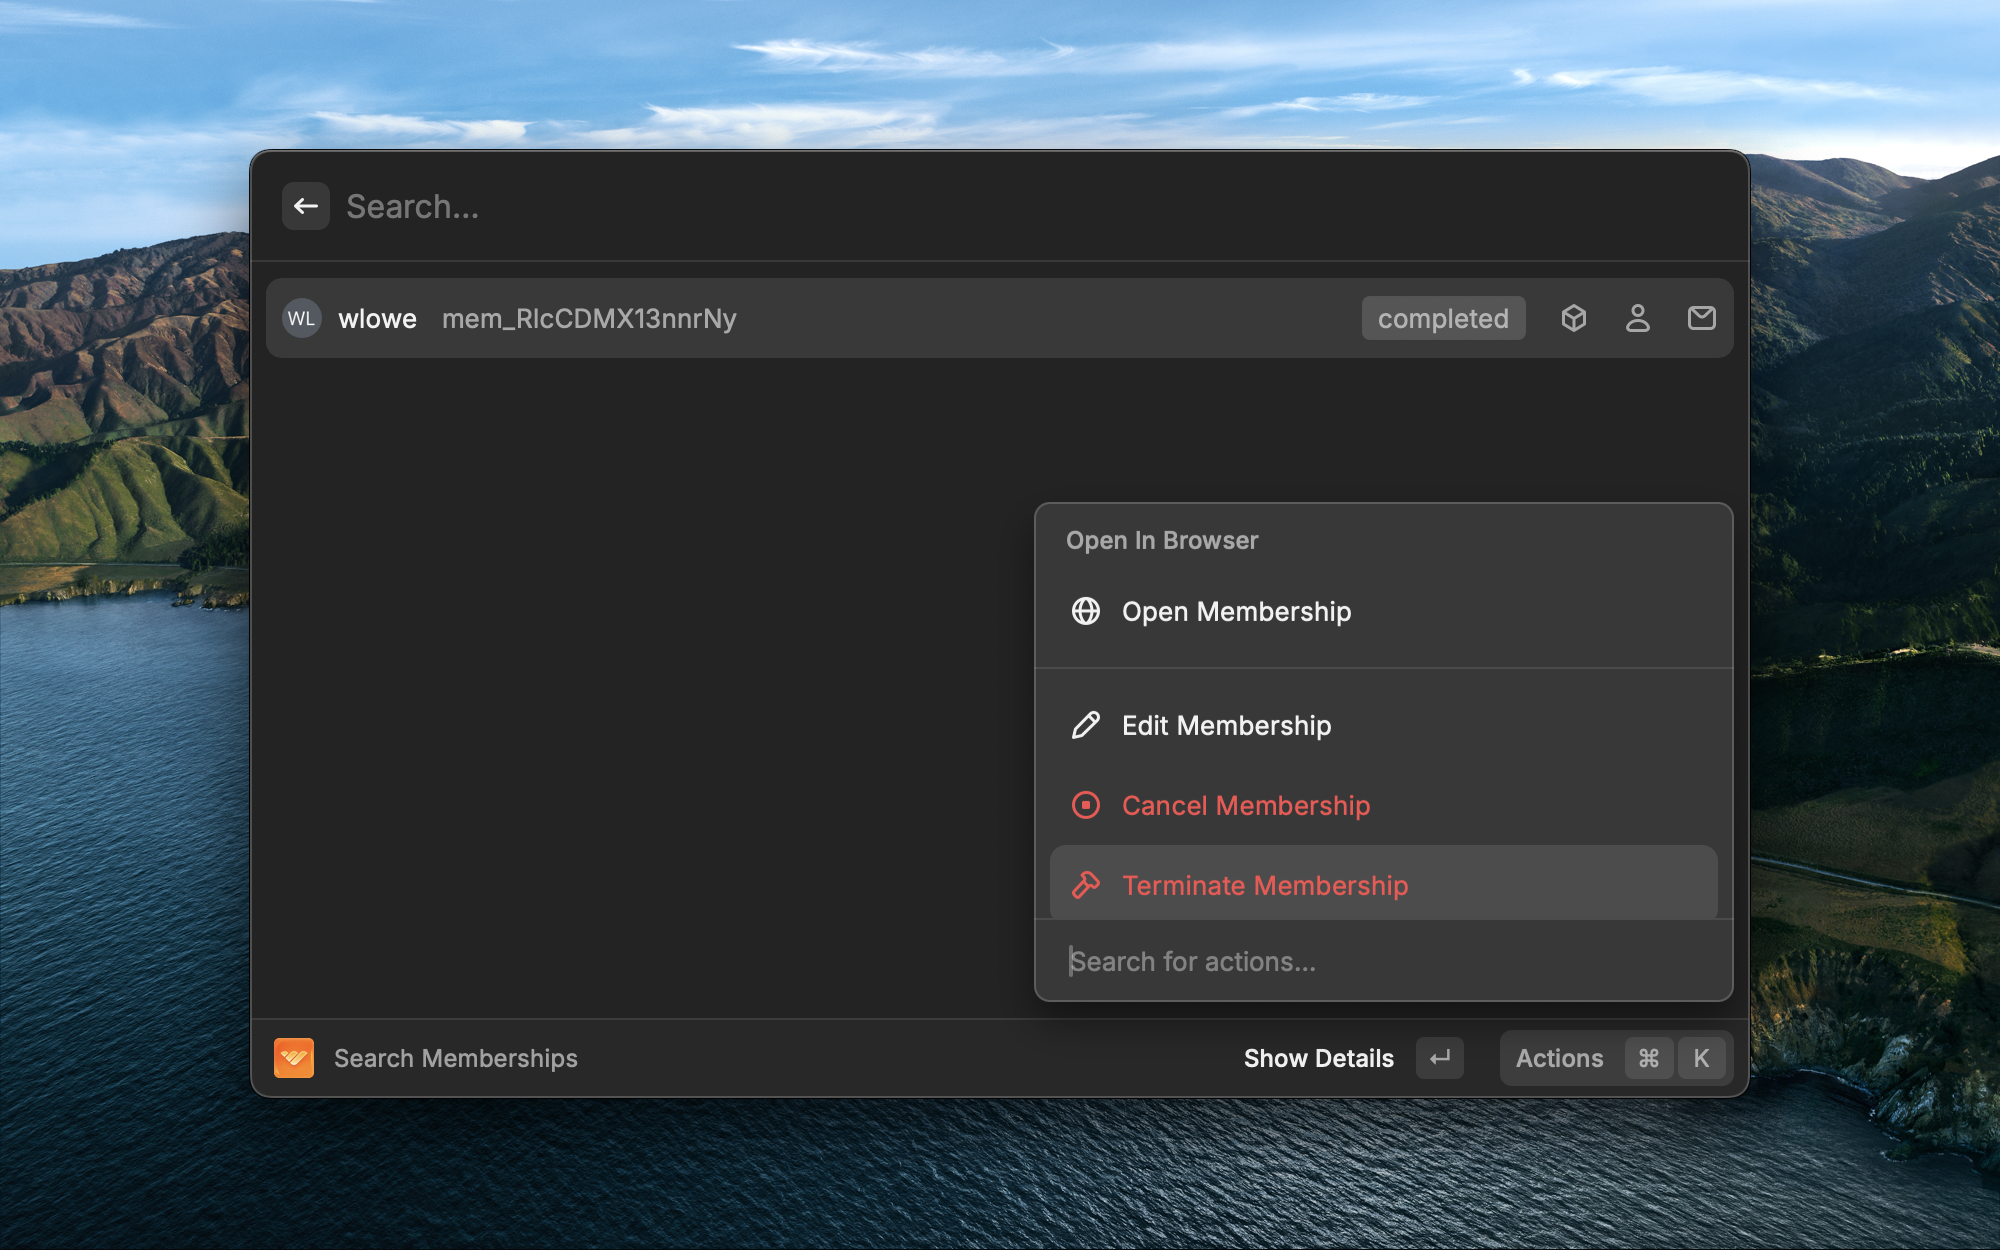
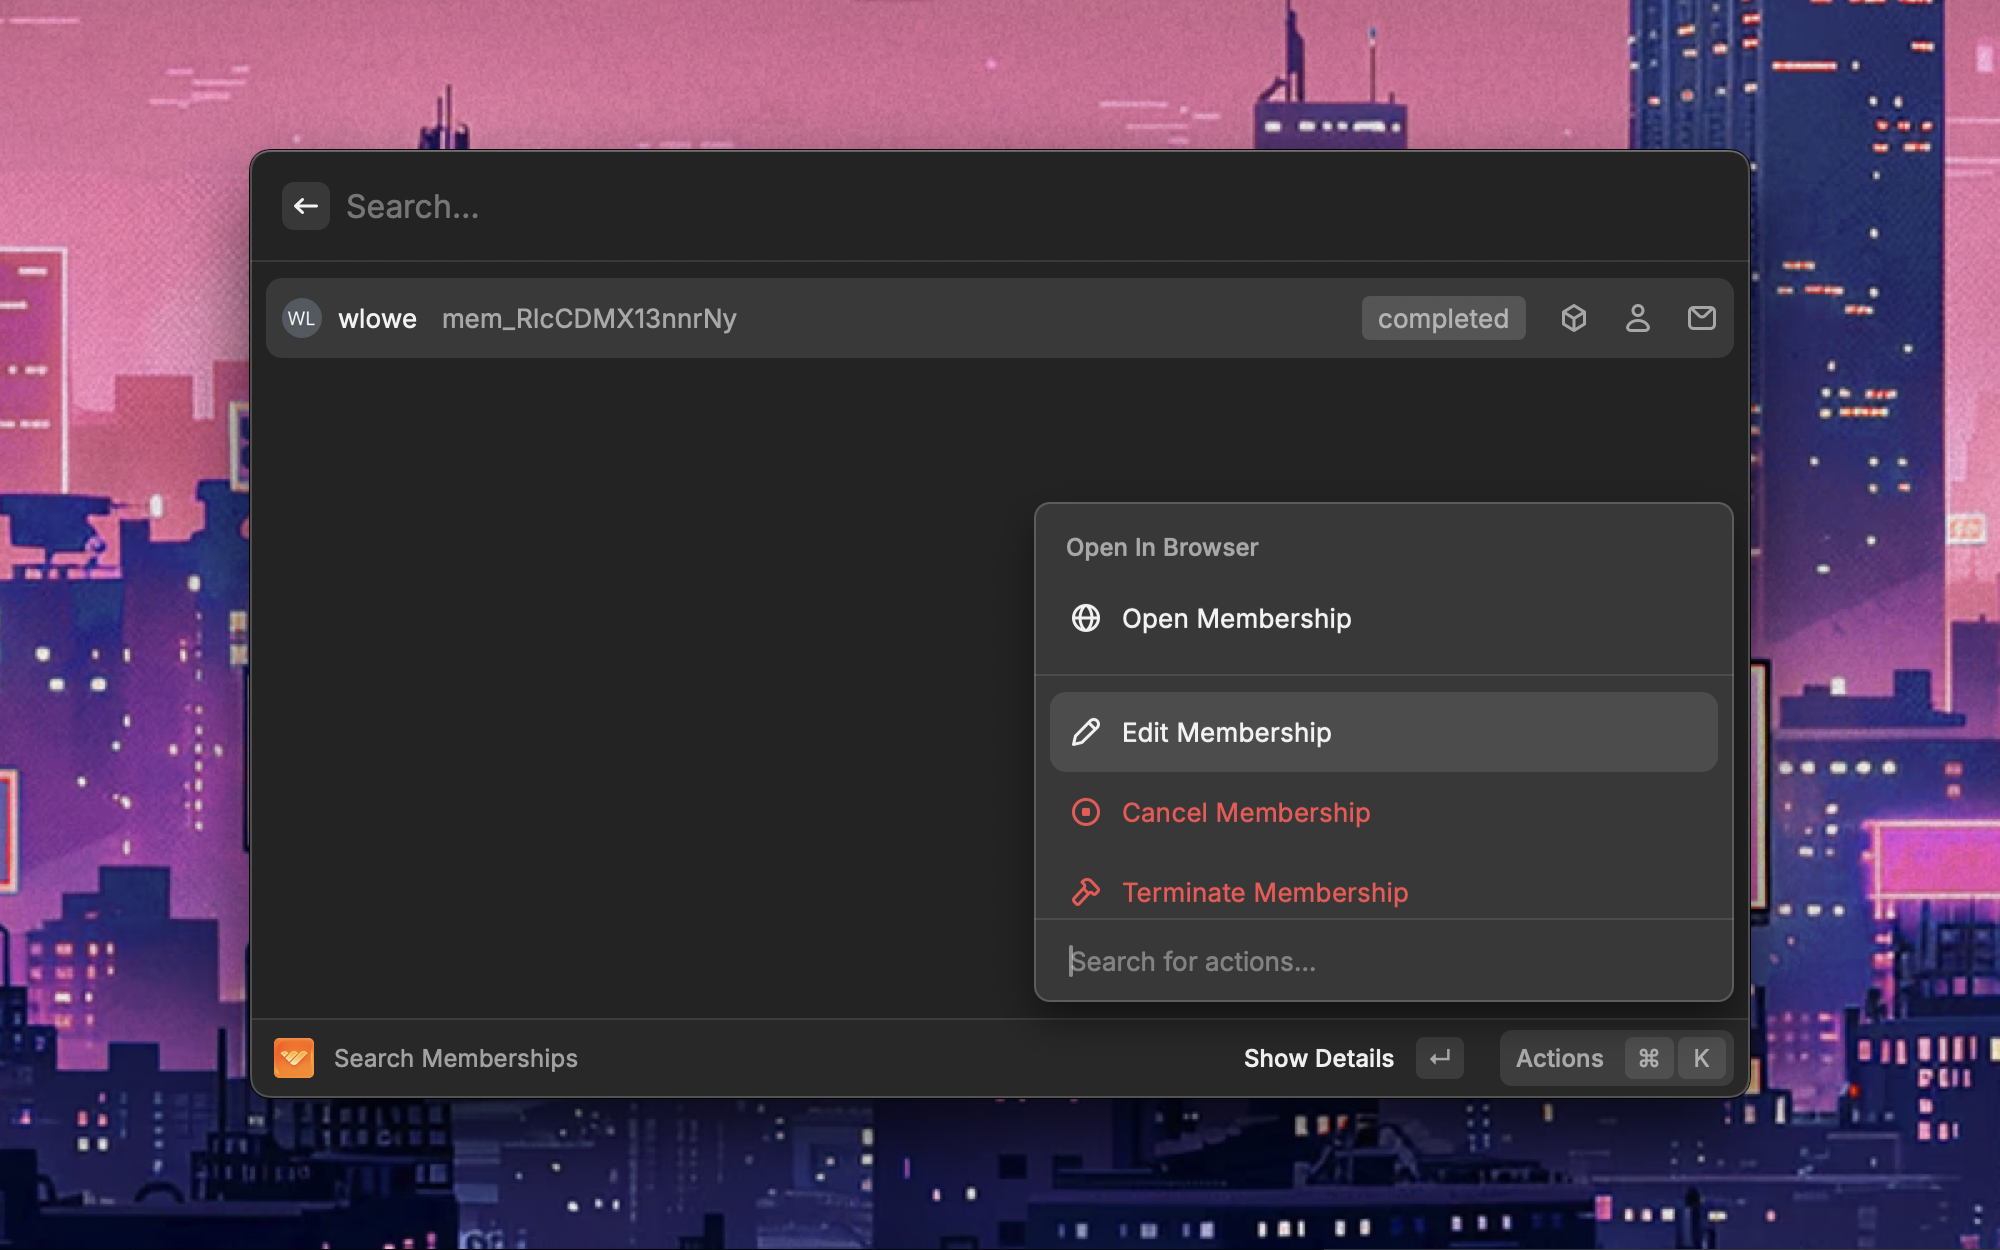
updated metadata images, readme, and API key preference

diff --git a/README.md b/README.md
@@ -1,3 +1,11 @@
-# whop-raycast
+# Whop
 
-Raycast extension to interact with Whop.
+Raycast extension to interact with [Whop](https://whop.com).
+
+![Whop](/metadata/whop-1.png)
+
+## Getting Started
+
+When first installing the extension, you will be prompted to enter an API key. You can create an API key [here](https://whop.com/dash/settings/developer/api-keys/). It's recommended to use an API key with all permissions granted.
+
+![Whop Setup](/metadata/whop-5.png)
